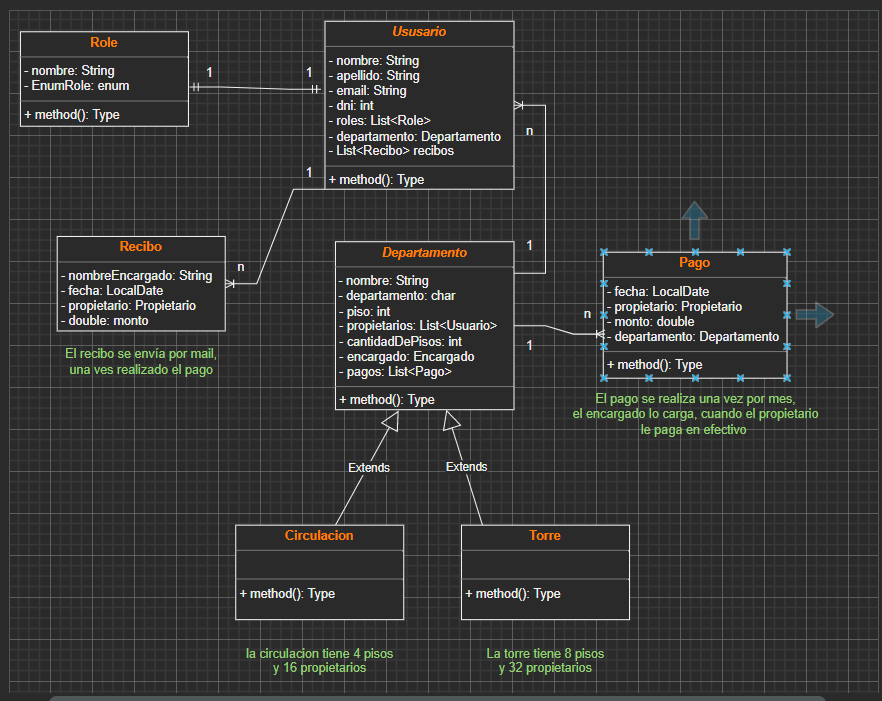
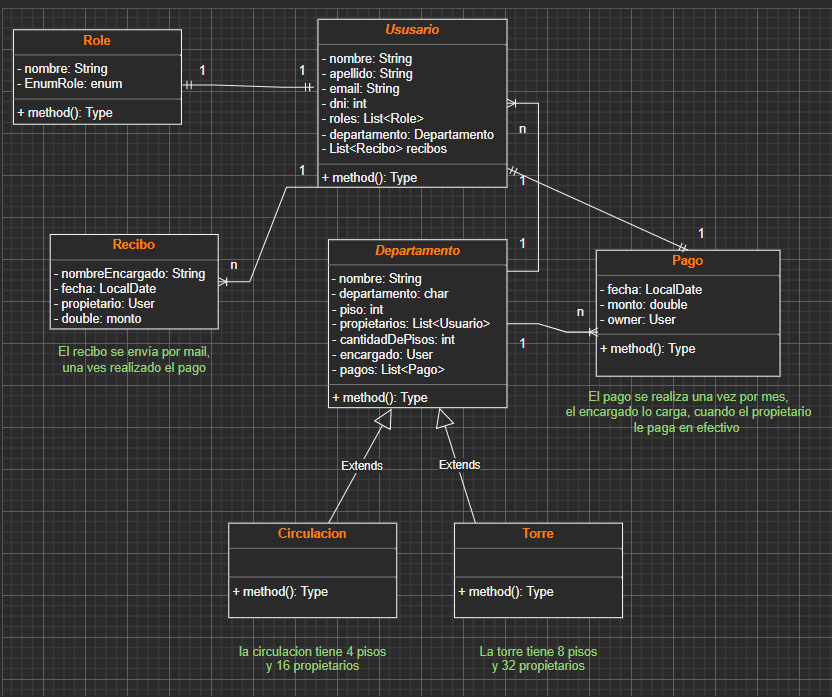
refactorizando

diff --git a/src/main/java/com/control/expensas/service/UserServiceImpl.java b/src/main/java/com/control/expensas/service/UserServiceImpl.java
@@ -16,11 +16,13 @@ import com.control.expensas.service.abstraction.AuthService;
 import com.control.expensas.service.abstraction.RoleService;
 import com.control.expensas.service.abstraction.UserService;
 import lombok.AllArgsConstructor;
+import org.springframework.http.HttpStatus;
 import org.springframework.security.authentication.AuthenticationManager;
 import org.springframework.security.authentication.UsernamePasswordAuthenticationToken;
 import org.springframework.security.core.userdetails.UsernameNotFoundException;
 import org.springframework.security.crypto.password.PasswordEncoder;
 import org.springframework.stereotype.Service;
+import org.springframework.web.server.ResponseStatusException;
 
 @AllArgsConstructor
 @Service
@@ -48,6 +50,10 @@ public class UserServiceImpl implements AuthService, UserService {
         if(request.getRole() == 2){
             role = roleService.findBy(RoleEnum.ROLE_DUTY_MANAGER);
             user.setRole(role);
+        }
+        if(request.getRole() !=2 && request.getRole() != 1){
+            throw new ResponseStatusException(
+                    HttpStatus.NOT_FOUND, "Role not found");
         }
         User userCreate = userRepository.save(user);
         UserRegisterResponse response = userMapper.dtoToEntity(userCreate);

diff --git a/src/main/java/com/control/expensas/model/Receipt.java b/src/main/java/com/control/expensas/model/Receipt.java
@@ -20,6 +20,10 @@ public class Receipt {
 
     private LocalDate date;
 
+    private double amount; // monto
+
+    private String nameInCharge; // nombre del encargado
+
     @ManyToOne(fetch = FetchType.EAGER)
     private User owner;// propietario
 }
